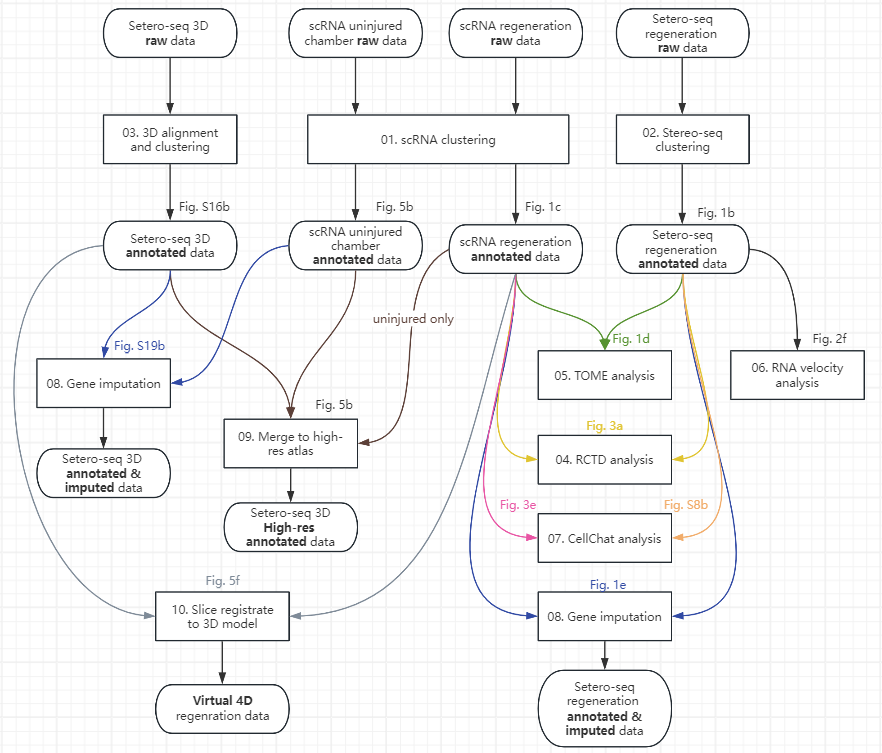
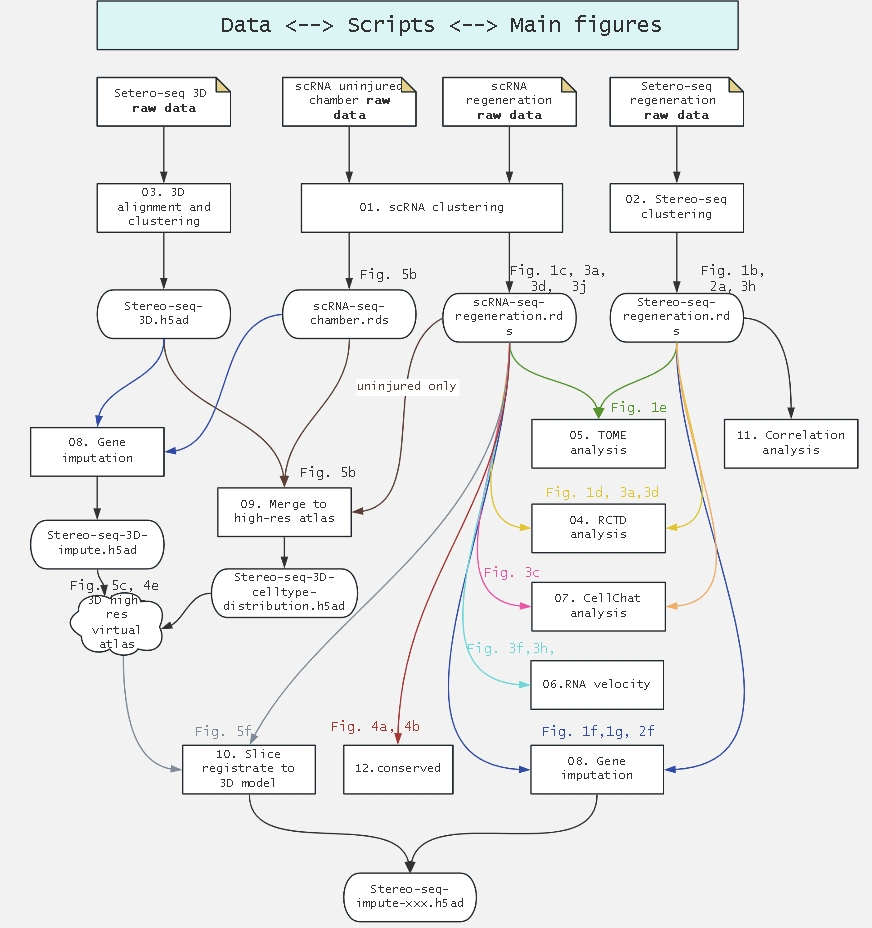
update images

diff --git a/README.md b/README.md
@@ -5,7 +5,7 @@ All scripts for paper "An Organ-wide Spatiotemporal Transcriptomic and Cellular 
 
 ## Data avaliable
 
-Interactive data browser in https://db.cngb.org/stomics/zebrafish_VRH/ and 3D data browser in https://www.bgiocean.com/zebrafish_VRH/.
+
 
 All sequencing data stored in CNGB https://db.cngb.org/search/project/CNP0005245/.
 
@@ -13,10 +13,9 @@ Additional stereo-seq raw GEM and tif files stored in STOmicsDB https://db.cngb.
 
 All processed rds and h5ad files also stored in STOmicsDB https://db.cngb.org/stomics/zebrafish_VRH/download/
 
+Interactive data browser in https://db.cngb.org/stomics/zebrafish_VRH/ and 3D data browser in https://www.bgiocean.com/zebrafish_VRH/. Specially, the high-res scRNA & ST virtual atlas only in 3D browser: https://www.bgiocean.com/zebrafish_VRH/heart3d_merge/index.html?atlas=/zebrafish_VRH/heart3d_merge/.
+
 ## The full workflow of this paper
 
 ![alt text](image-1.png)
 
-## The detail relationship of the analysis and all figures
-
-TODO

diff --git a/04. RCTD analysis/README.md b/04. RCTD analysis/README.md
@@ -1,2 +1,4 @@
 # mapping the annotation of scRNA regeneration atlas to Stereo-seq regeneration atlas
 
+
+scaled comp. was calulated by https://github.com/saezlab/visium_heart
